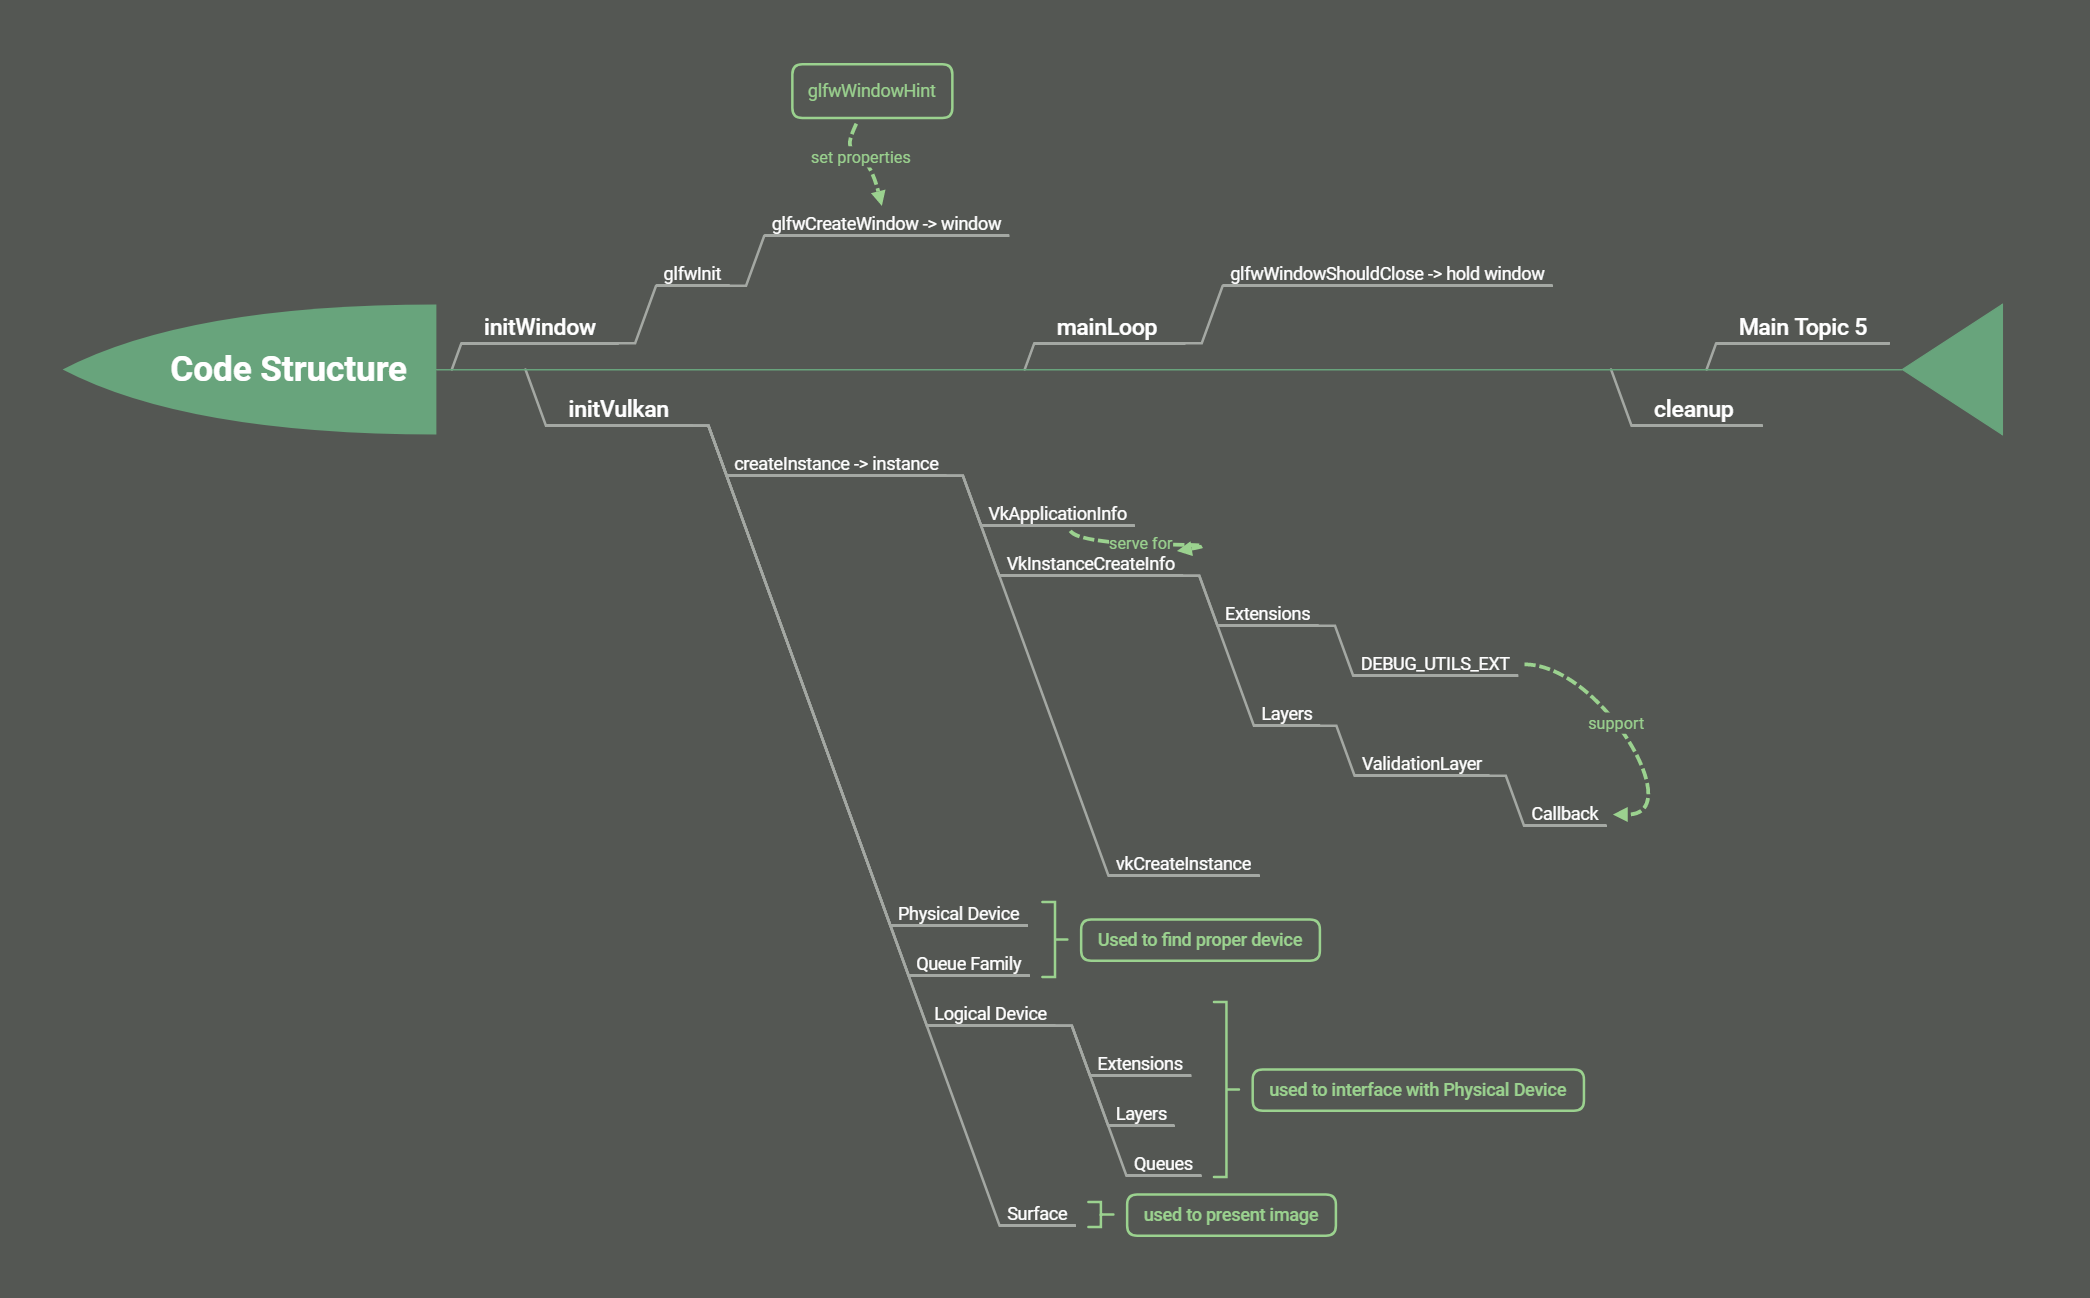
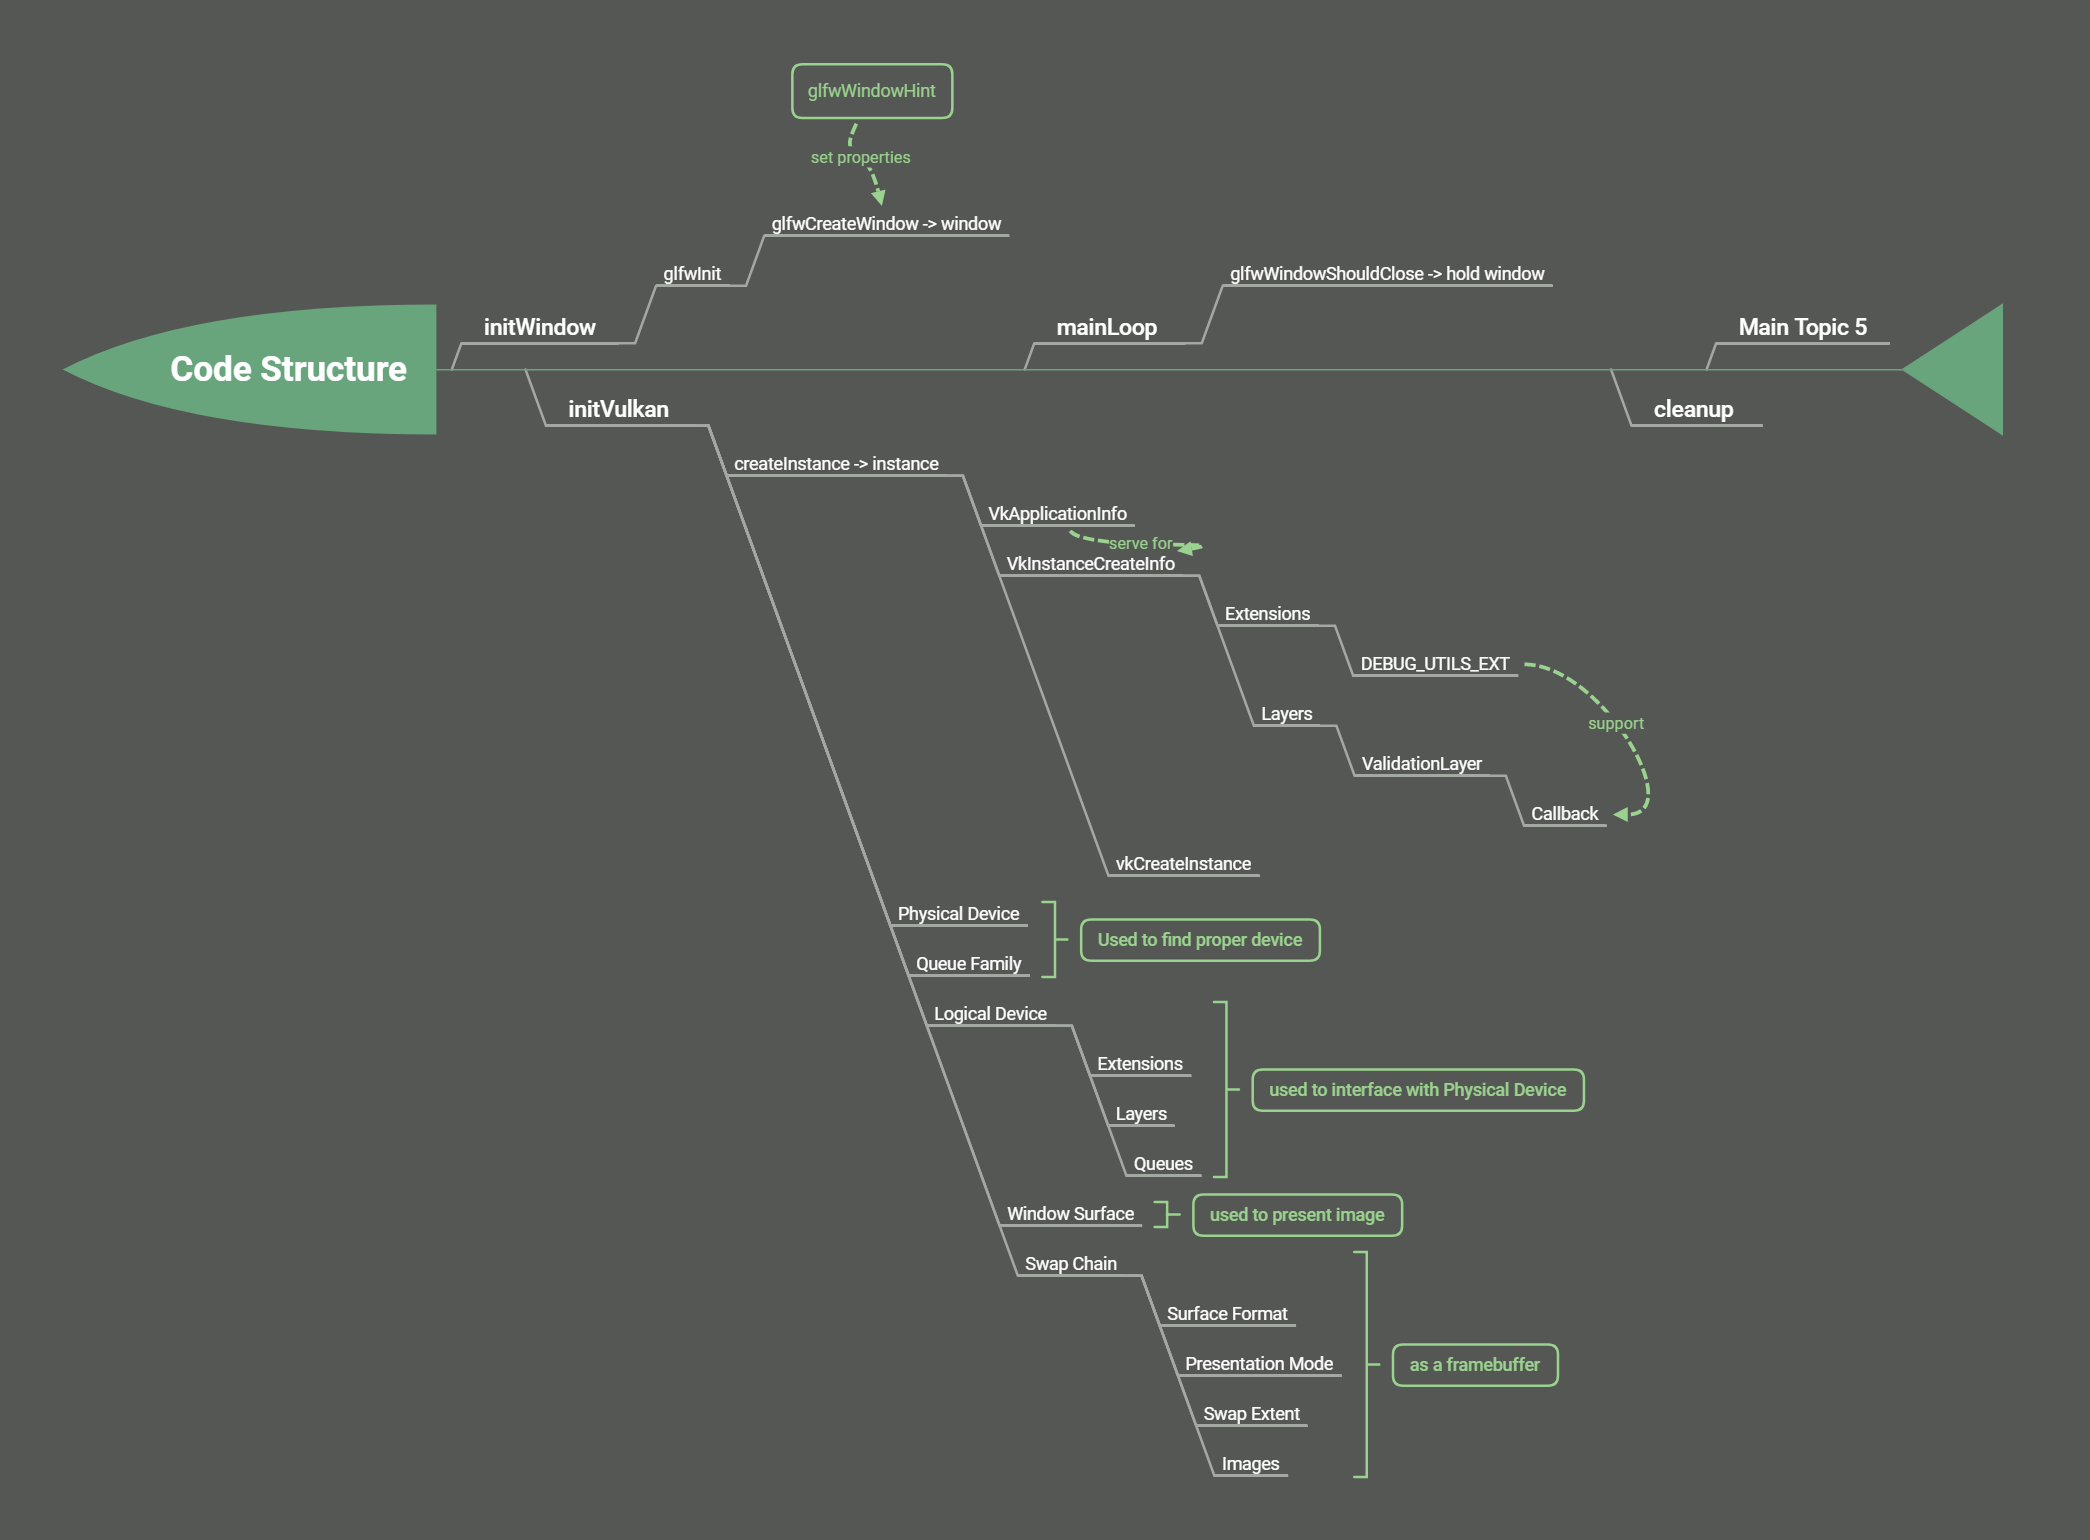
add swap chain

diff --git a/src/main.cpp b/src/main.cpp
@@ -9,6 +9,7 @@
 #include <vector>
 #include <cstring>
 #include <optional>
+#include <algorithm>
 
 VkResult CreateDebugUtilsMessengerEXT(VkInstance instance, const VkDebugUtilsMessengerCreateInfoEXT *pCreateInfo,
                                       const VkAllocationCallbacks *pAllocator,
@@ -53,9 +54,18 @@ private:
     VkQueue presentQueue;
 
     VkSurfaceKHR surface;
+    VkSwapchainKHR swapChain;
+
+    std::vector<VkImage> swapChainImages;
+    VkFormat swapChainImageFormat;
+    VkExtent2D swapChainExtent;
 
     const std::vector<const char *> validationLayers = {
             "VK_LAYER_KHRONOS_validation"
+    };
+
+    const std::vector<const char *> deviceExtensions = {
+            VK_KHR_SWAPCHAIN_EXTENSION_NAME
     };
 
     struct QueueFamilyIndices {
@@ -65,6 +75,12 @@ private:
         bool isComplete() {
             return graphicsFamily.has_value() && presentFamily.has_value();
         }
+    };
+
+    struct SwapChainSupportDetails {
+        VkSurfaceCapabilitiesKHR capabilities;
+        std::vector<VkSurfaceFormatKHR> formats;
+        std::vector<VkPresentModeKHR> presentModes;
     };
 
 #ifdef NDEBUG
@@ -88,6 +104,64 @@ private:
         createSurface();
         pickPhysicalDevice();
         createLogicalDevice();
+        createSwapChain();
+    }
+
+    void createSwapChain() {
+        SwapChainSupportDetails swapChainSupport = querySwapChainSupport(physicalDevice);
+
+        VkSurfaceFormatKHR surfaceFormat = chooseSwapSurfaceFormat(swapChainSupport.formats);
+        VkPresentModeKHR presentMode = chooseSwapPresentMode(swapChainSupport.presentModes);
+        VkExtent2D extent = chooseSwapExtent(swapChainSupport.capabilities);
+
+        uint32_t imageCount = swapChainSupport.capabilities.minImageCount + 1;
+
+        if (swapChainSupport.capabilities.maxImageCount > 0 &&
+            imageCount > swapChainSupport.capabilities.maxImageCount) {
+            imageCount = swapChainSupport.capabilities.maxImageCount;
+        }
+
+        VkSwapchainCreateInfoKHR createInfo = {};
+        createInfo.sType = VK_STRUCTURE_TYPE_SWAPCHAIN_CREATE_INFO_KHR;
+        createInfo.surface = surface;
+        createInfo.minImageCount = imageCount;
+        createInfo.imageFormat = surfaceFormat.format;
+        createInfo.imageColorSpace = surfaceFormat.colorSpace;
+        createInfo.imageExtent = extent;
+        createInfo.imageArrayLayers = 1;
+        createInfo.imageUsage = VK_IMAGE_USAGE_COLOR_ATTACHMENT_BIT;
+
+        QueueFamilyIndices indices = findQueueFamilies(physicalDevice);
+        uint32_t queueFamilyIndices[] = {indices.graphicsFamily.value(), indices.presentFamily.value()};
+
+        if (indices.graphicsFamily != indices.presentFamily) {
+            createInfo.imageSharingMode = VK_SHARING_MODE_CONCURRENT;
+            createInfo.queueFamilyIndexCount = 2;
+            createInfo.pQueueFamilyIndices = queueFamilyIndices;
+        } else {
+            createInfo.imageSharingMode = VK_SHARING_MODE_EXCLUSIVE;
+            createInfo.queueFamilyIndexCount = 0;
+            createInfo.pQueueFamilyIndices = nullptr;
+        }
+
+        createInfo.preTransform = swapChainSupport.capabilities.currentTransform;
+        createInfo.compositeAlpha = VK_COMPOSITE_ALPHA_OPAQUE_BIT_KHR;
+
+        createInfo.presentMode = presentMode;
+        createInfo.clipped = VK_TRUE;
+
+        createInfo.oldSwapchain = VK_NULL_HANDLE;
+
+        if (vkCreateSwapchainKHR(device, &createInfo, nullptr, &swapChain) != VK_SUCCESS) {
+            throw std::runtime_error("failed to create swap chain!");
+        }
+
+        vkGetSwapchainImagesKHR(device, swapChain, &imageCount, nullptr);
+        swapChainImages.resize(imageCount);
+        vkGetSwapchainImagesKHR(device, swapChain, &imageCount, swapChainImages.data());
+
+        swapChainImageFormat = surfaceFormat.format;
+        swapChainExtent = extent;
     }
 
     void createInstance() {
@@ -178,8 +252,8 @@ private:
 
         createInfo.pEnabledFeatures = &deviceFeatures;
 
-        createInfo.enabledExtensionCount = 0;
-
+        createInfo.enabledExtensionCount = deviceExtensions.size();
+        createInfo.ppEnabledExtensionNames = deviceExtensions.data();
         if (enableValidationLayers) {
             createInfo.enabledLayerCount = validationLayers.size();
             createInfo.ppEnabledLayerNames = validationLayers.data();
@@ -205,7 +279,91 @@ private:
         //return deviceProperties.deviceType == VK_PHYSICAL_DEVICE_TYPE_DISCRETE_GPU && deviceFeatures.geometryShader;
 
         QueueFamilyIndices indices = findQueueFamilies(device);
-        return indices.isComplete();
+
+        bool extensionSupported = checkDeviceExtensionSupport(device);
+
+        bool swapChainAdequate = false;
+        if (extensionSupported) {
+            SwapChainSupportDetails swapChainSupport = querySwapChainSupport(device);
+            swapChainAdequate = !swapChainSupport.formats.empty() && !swapChainSupport.presentModes.empty();
+        }
+
+        return indices.isComplete() && extensionSupported && swapChainAdequate;
+    }
+
+    bool checkDeviceExtensionSupport(VkPhysicalDevice device) {
+        uint32_t extensionCount;
+        vkEnumerateDeviceExtensionProperties(device, nullptr, &extensionCount, nullptr);
+
+        std::vector<VkExtensionProperties> availableExtensions(extensionCount);
+        vkEnumerateDeviceExtensionProperties(device, nullptr, &extensionCount, availableExtensions.data());
+
+        std::set<std::string> requiredExtensions(deviceExtensions.begin(), deviceExtensions.end());
+
+        for (const auto &extension: availableExtensions) {
+            requiredExtensions.erase(extension.extensionName);
+        }
+
+        return requiredExtensions.empty();
+    }
+
+    VkSurfaceFormatKHR chooseSwapSurfaceFormat(const std::vector<VkSurfaceFormatKHR> &availableFormats) {
+        for (const auto &availableFormat : availableFormats) {
+            if (availableFormat.format == VK_FORMAT_B8G8R8A8_SRGB &&
+                availableFormat.colorSpace == VK_COLOR_SPACE_SRGB_NONLINEAR_KHR) {
+                return availableFormat;
+            }
+        }
+
+        return availableFormats[0];
+    }
+
+    VkPresentModeKHR chooseSwapPresentMode(const std::vector<VkPresentModeKHR> &availablePresentModes) {
+        for (const auto &availablePresentMode : availablePresentModes) {
+            if (availablePresentMode == VK_PRESENT_MODE_MAILBOX_KHR) {
+                return availablePresentMode;
+            }
+        }
+
+        return VK_PRESENT_MODE_FIFO_KHR;
+    }
+
+    VkExtent2D chooseSwapExtent(const VkSurfaceCapabilitiesKHR &capabilities) {
+        if (capabilities.currentExtent.width != UINT32_MAX) {
+            return capabilities.currentExtent;
+        } else {
+            VkExtent2D actualExtent = {static_cast<uint32_t>(WIDTH), static_cast<uint32_t>(HEIGHT)};
+
+            actualExtent.width = std::max(capabilities.minImageExtent.width,
+                                          std::min(capabilities.maxImageExtent.width, actualExtent.width));
+            actualExtent.height = std::max(capabilities.minImageExtent.height,
+                                           std::min(capabilities.maxImageExtent.height, actualExtent.height));
+
+            return actualExtent;
+        }
+    }
+
+    SwapChainSupportDetails querySwapChainSupport(VkPhysicalDevice device) {
+        SwapChainSupportDetails details;
+
+        vkGetPhysicalDeviceSurfaceCapabilitiesKHR(device, surface, &details.capabilities);
+
+        uint32_t formatCount;
+        vkGetPhysicalDeviceSurfaceFormatsKHR(device, surface, &formatCount, nullptr);
+
+        if (formatCount != 0) {
+            details.formats.resize(formatCount);
+            vkGetPhysicalDeviceSurfaceFormatsKHR(device, surface, &formatCount, details.formats.data());
+        }
+
+        uint32_t presentModeCount;
+        vkGetPhysicalDeviceSurfacePresentModesKHR(device, surface, &presentModeCount, nullptr);
+
+        if (presentModeCount != 0) {
+            details.presentModes.resize(presentModeCount);
+            vkGetPhysicalDeviceSurfacePresentModesKHR(device, surface, &presentModeCount, details.presentModes.data());
+        }
+        return details;
     }
 
     QueueFamilyIndices findQueueFamilies(VkPhysicalDevice device) {
@@ -324,6 +482,7 @@ private:
     }
 
     void cleanup() {
+        vkDestroySwapchainKHR(device, swapChain, nullptr);
         vkDestroyDevice(device, nullptr);
         if (enableValidationLayers) {
             DestroyDebugUtilsMessengerEXT(instance, debugMessenger, nullptr);
